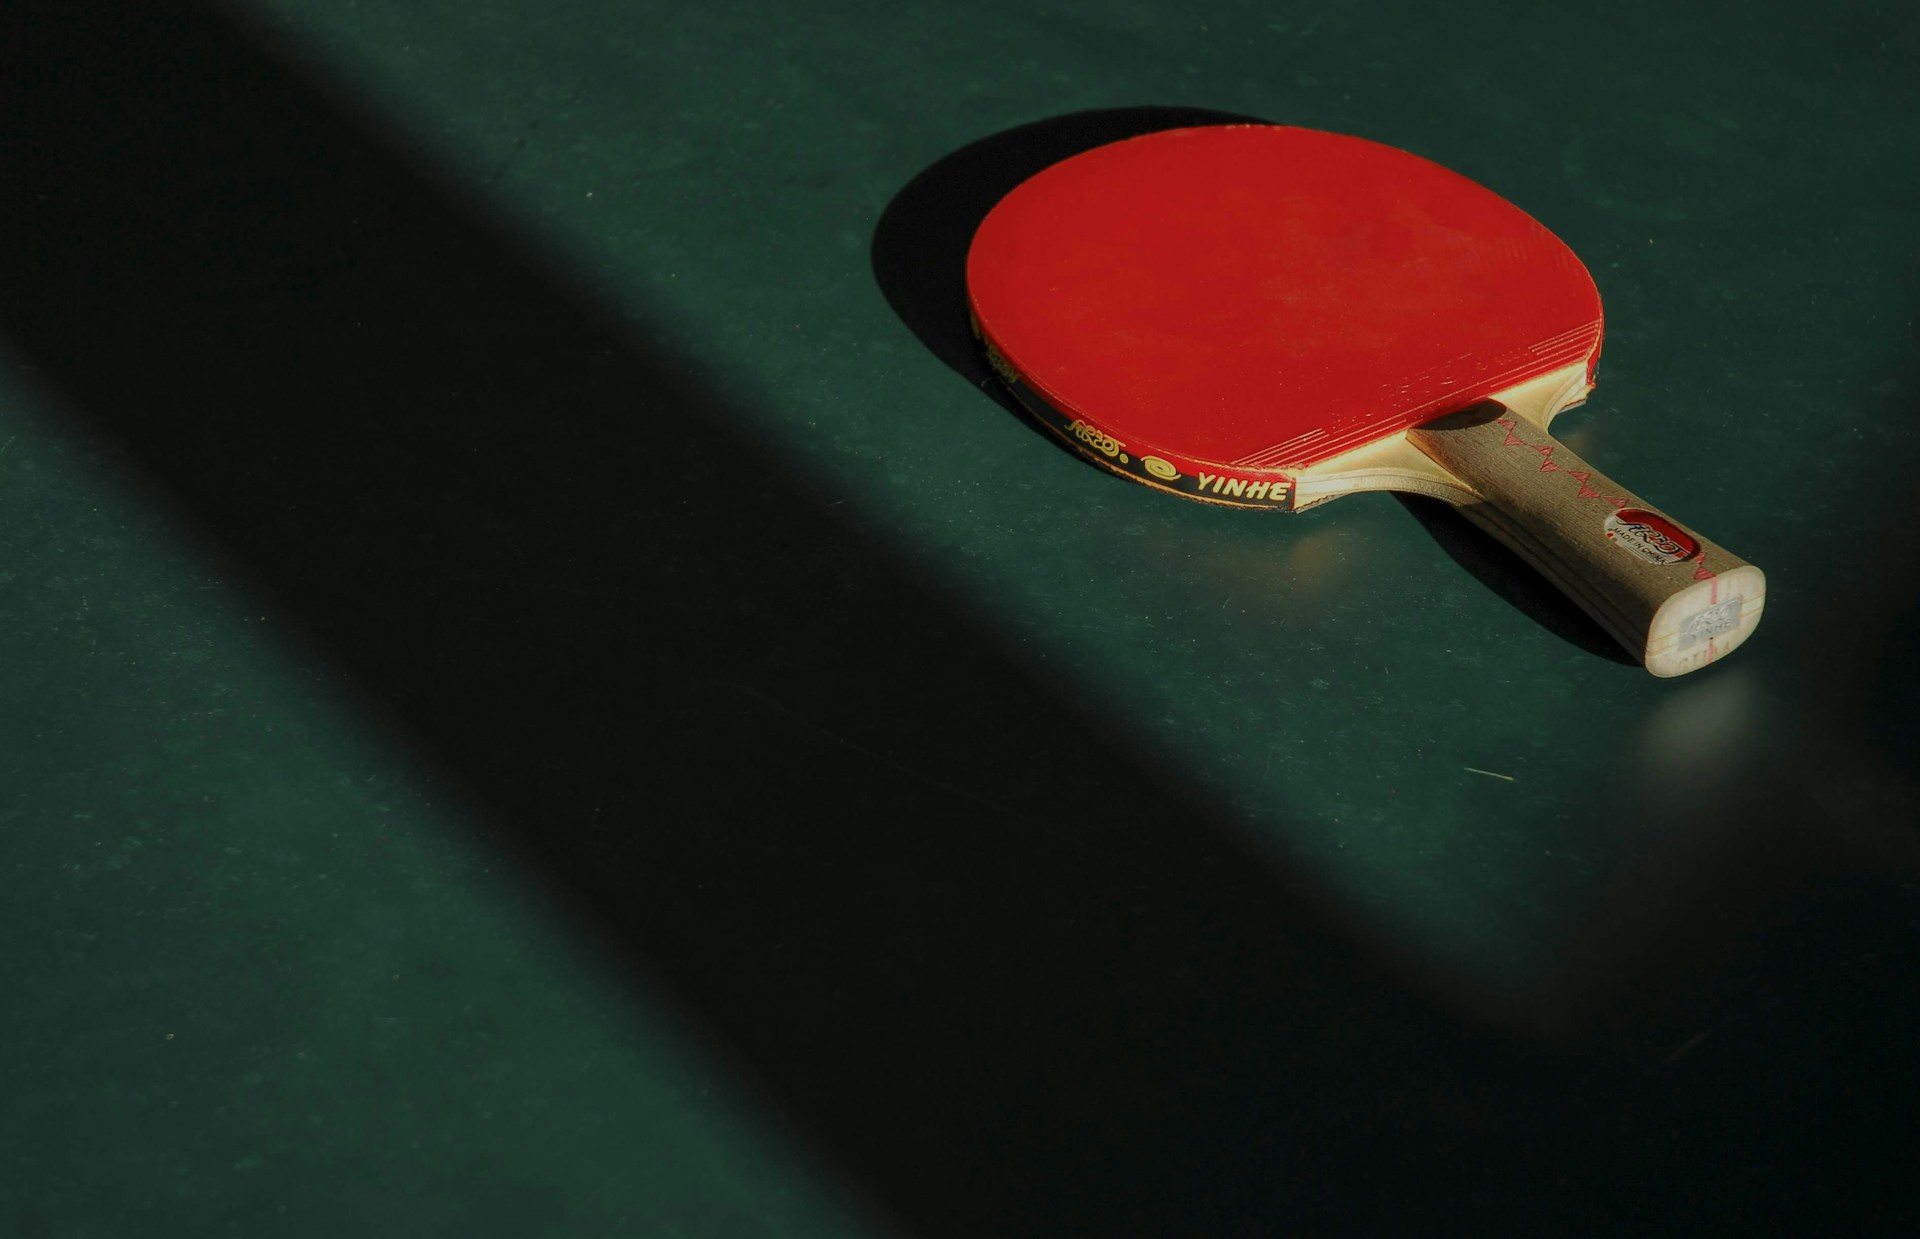
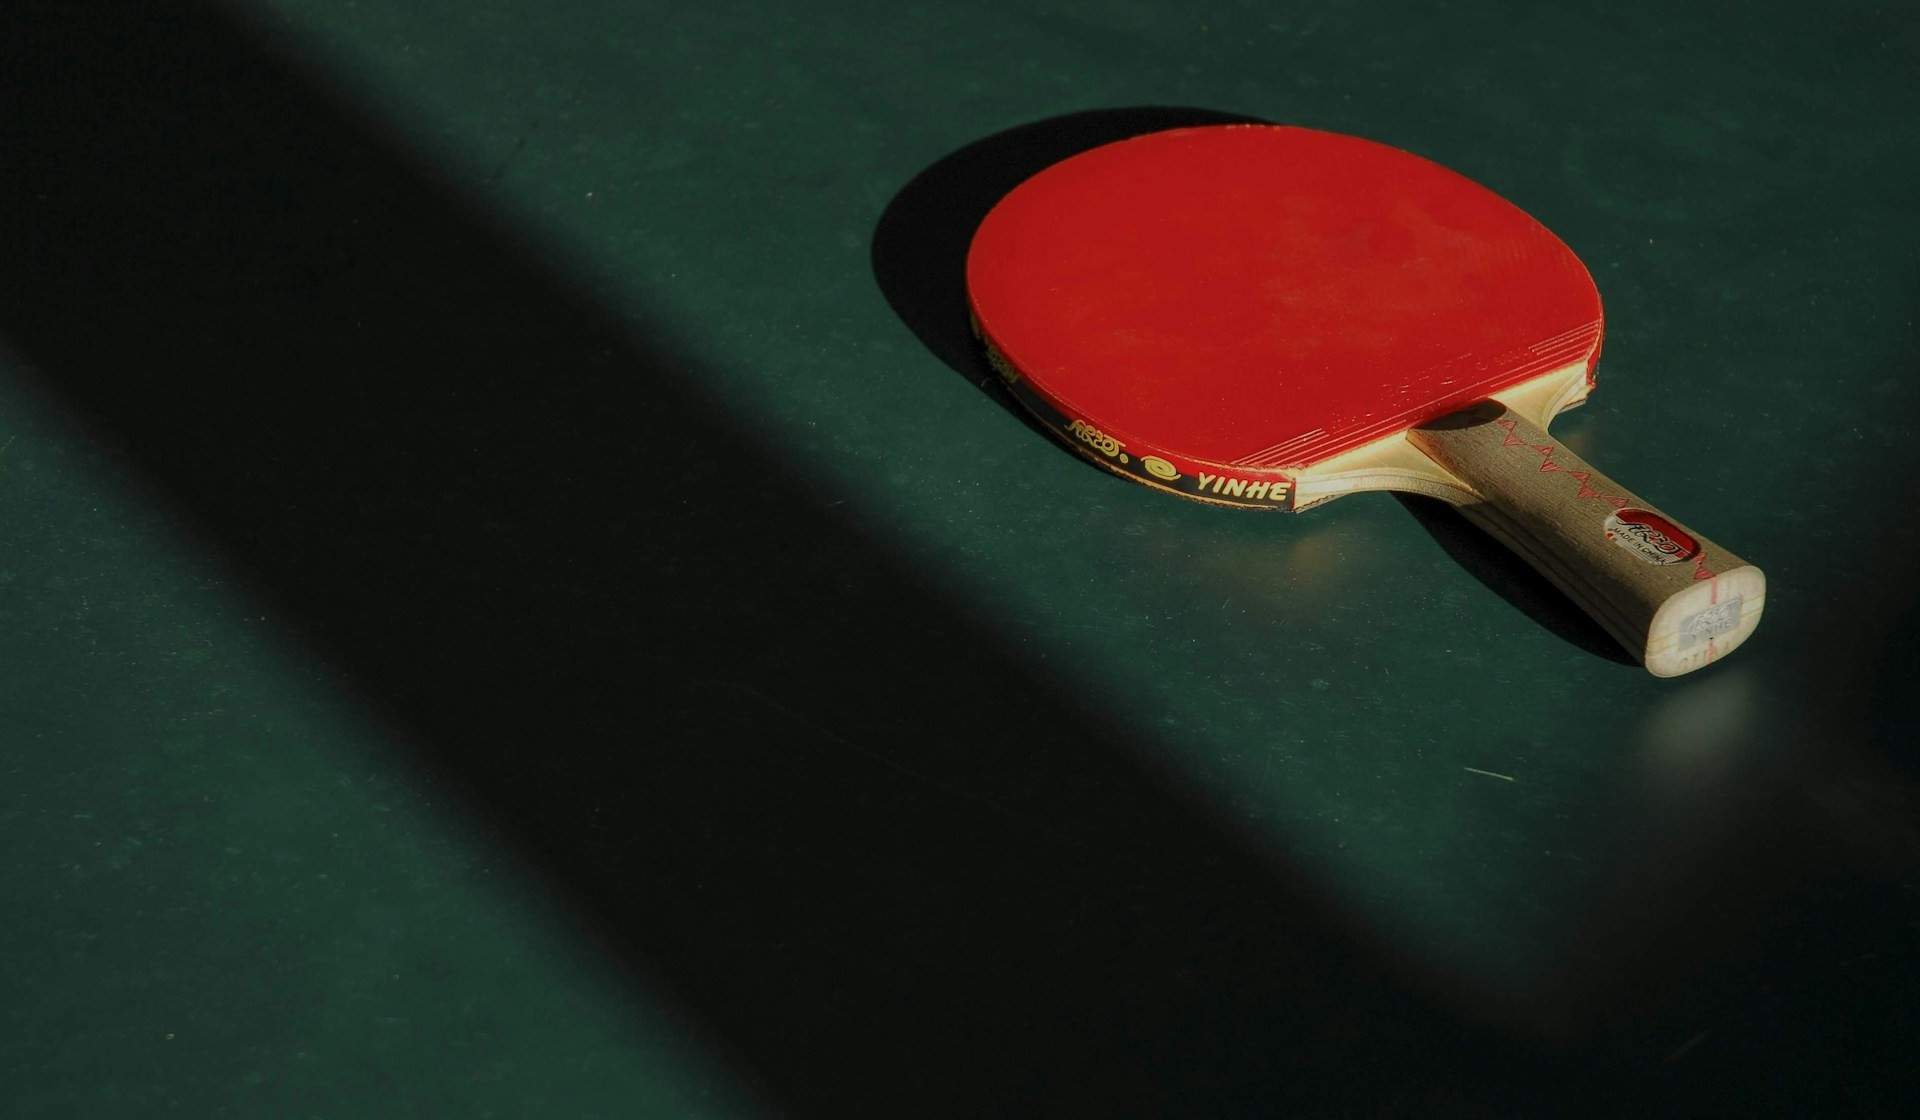
Prtt

diff --git a/prtt/src/app/component/home/home.component.scss b/prtt/src/app/component/home/home.component.scss
@@ -1,0 +1,153 @@
+@use '../../../var.scss' as var;
+
+.app-home {
+    width: 100%;
+    margin-bottom: 200px;
+
+    &-header {
+        position: absolute;
+        overflow: hidden;
+        inset: 0;
+        top: 6%;
+        height: 85vh;
+
+        &_img {
+            display: block;
+            width: 100%;
+            height: 100%;
+            object-fit: cover;
+            object-position: center;
+        }
+
+        &_filter {
+            position: absolute;
+            width: 100%;
+            height: 100%;
+            inset: 0;
+            background-image: linear-gradient(to right, rgba(17, 24, 39, 0.9), rgba(17, 24, 39, 0.7), transparent);
+        }
+    }
+
+    &-content {
+        position: relative;
+        width: max-content;
+        height: max-content;
+        max-height: 400px;
+        margin-top: 11.8%;
+        margin-left: 10%;
+
+        &-title {
+            display: flex;
+            flex-wrap: wrap;
+            flex-direction: column;
+            width: max-content;
+            font-size: 3.75rem;
+            line-height: 4rem;
+            margin-bottom: 0;
+            max-width: 600px;
+
+            &_white {
+                color: white;
+            }
+
+            &_color {
+                background: linear-gradient(145deg, #fb923c, #ef4444);
+                -webkit-background-clip: text;
+                background-clip: text;
+                color: transparent;
+                -webkit-text-fill-color: transparent;
+                height: 78px;
+            }
+        }
+
+        &-subtitle {
+            font-size: 1.1rem;
+            line-height: .8rem;
+            color: rgb(255, 255, 255, .9);
+        }
+
+        &-btn {
+            display: flex;
+            gap: 20px;
+            margin-top: 36px;
+            
+            &-common {
+                width: max-content;
+                height: max-content;
+                outline: none;
+                color: white;
+                cursor: pointer;
+                font-family: var.$fontFamily;
+                font-weight: 500;
+                padding: .68rem 1.6rem;
+                font-size: 1.1rem;
+                border-radius: 4px;
+                border: 0;
+
+                &_join {
+                    display: flex;
+                    gap: 12px;
+                    background: linear-gradient(60deg, #ff7e14, #e21616);
+                }
+
+                &_new {
+                    background-color: rgb(255, 255, 255, .1);
+                    border: 1px solid white
+                }
+            }
+        }
+
+        &-stats {
+            display: flex;
+            gap: 20px;
+
+            &-container {
+                display: flex;
+                align-items: center;
+                flex-direction: column;
+                padding: 20px;
+                width: 260px;
+                height: 164px;
+                margin-top: 24px;
+                border-radius: 12px;
+                border: 1px solid rgb(128, 128, 128, .2);
+                background-color: white;
+                box-shadow: 0 6px 12px rgba(0,0,0,0.2);
+
+                &:hover {
+                    box-shadow: 0 10px 20px rgba(0,0,0,0.2);
+                }
+
+                &_logo {
+                    display: flex;
+                    justify-content: center;
+                    align-items: center;
+                    width: 50px;
+                    height: 50px;
+                    border-radius: 9999px;
+                    background-color: #fee2e2;
+
+                    ::ng-deep {
+                        color: rgb(234, 88, 12);
+                    }
+                }
+
+                &_paragraphe {
+                    margin: 0;
+                    margin-top: 8px;
+                    font-weight: bold;
+                    font-size: 1.9rem;
+                    color: rgb(28, 28, 28);
+                }
+
+                &_description {
+                    margin: 0;
+                    margin-top: 4px;
+                    font-size: .9rem;
+                    font-weight: 500;
+                    color: rgb(55, 55, 55);
+                }
+            }
+        }
+    }
+}

diff --git a/prtt/src/app/component/home/home.component.html b/prtt/src/app/component/home/home.component.html
@@ -1,1 +1,52 @@
 <extranet-navbar />
+
+<div class="app-home">
+    <header class="app-home-header">
+        <img class="app-home-header_img" src="welcome.jpg" alt="ping pong" />
+        <div class="app-home-header_filter"></div>
+    </header>
+    <div class="app-home-content">
+        <h1 class="app-home-content-title">
+            <span class="app-home-content-title_white">Bienvenue au Club de</span>
+            <span class="app-home-content-title_color">Perpignan Roussillon</span>
+        </h1>
+        <div class="app-home-content-subtitle">
+            <p>Rejoingez notre communauté passionnée et découvrez le tennis de table</p>
+            <p>dans une ambiance conviviale et compétitive.</p>
+        </div>
+        <div class="app-home-content-btn">
+            <button class="app-home-content-btn-common app-home-content-btn-common_join">Nous Rejoindre <svg-join /></button>
+            <button class="app-home-content-btn-common app-home-content-btn-common_new">Actualités</button>
+        </div>
+        <div class="app-home-content-stats">
+            <div class="app-home-content-stats-container">
+                <div class="app-home-content-stats-container_logo">
+                    <svg-people [size]="26" />
+                </div>
+                <p class="app-home-content-stats-container_paragraphe">Plus de 150</p>
+                <p class="app-home-content-stats-container_description">Membres Actifs</p>
+            </div>
+            <div class="app-home-content-stats-container">
+                <div class="app-home-content-stats-container_logo">
+                    <svg-cup [size]="26" />
+                </div>
+                <p class="app-home-content-stats-container_paragraphe">25 ans et plus</p>
+                <p class="app-home-content-stats-container_description">Titres Gagnés</p>
+            </div>
+            <div class="app-home-content-stats-container">
+                <div class="app-home-content-stats-container_logo">
+                    <svg-calendar [size]="26" />
+                </div>
+                <p class="app-home-content-stats-container_paragraphe">30+</p>
+                <p class="app-home-content-stats-container_description">Années d'Existence</p>
+            </div>
+            <div class="app-home-content-stats-container">
+                <div class="app-home-content-stats-container_logo">
+                    <svg-star [size]="26" />
+                </div>
+                <p class="app-home-content-stats-container_paragraphe">8</p>
+                <p class="app-home-content-stats-container_description">Tables Disponibles</p>
+            </div>
+        </div>
+    </div>
+</div>

diff --git a/prtt/src/app/shared/svg/star/star.component.html b/prtt/src/app/shared/svg/star/star.component.html
@@ -1,1 +1,1 @@
-<svg style="margin-top: 4px;" xmlns="http://www.w3.org/2000/svg" width="18" height="18" viewBox="0 0 24 24" fill="none" stroke="currentColor" stroke-width="2" stroke-linecap="round" stroke-linejoin="round" class="lucide lucide-sparkles w-4 h-4"><path d="M9.937 15.5A2 2 0 0 0 8.5 14.063l-6.135-1.582a.5.5 0 0 1 0-.962L8.5 9.936A2 2 0 0 0 9.937 8.5l1.582-6.135a.5.5 0 0 1 .963 0L14.063 8.5A2 2 0 0 0 15.5 9.937l6.135 1.581a.5.5 0 0 1 0 .964L15.5 14.063a2 2 0 0 0-1.437 1.437l-1.582 6.135a.5.5 0 0 1-.963 0z"></path><path d="M20 3v4"></path><path d="M22 5h-4"></path><path d="M4 17v2"></path><path d="M5 18H3"></path></svg>
+<svg style="vertical-align: middle;" xmlns="http://www.w3.org/2000/svg" [attr.width]="size" [attr.height]="size" viewBox="0 0 24 24" fill="none" stroke="currentColor" stroke-width="2" stroke-linecap="round" stroke-linejoin="round" class="lucide lucide-sparkles w-4 h-4"><path d="M9.937 15.5A2 2 0 0 0 8.5 14.063l-6.135-1.582a.5.5 0 0 1 0-.962L8.5 9.936A2 2 0 0 0 9.937 8.5l1.582-6.135a.5.5 0 0 1 .963 0L14.063 8.5A2 2 0 0 0 15.5 9.937l6.135 1.581a.5.5 0 0 1 0 .964L15.5 14.063a2 2 0 0 0-1.437 1.437l-1.582 6.135a.5.5 0 0 1-.963 0z"></path><path d="M20 3v4"></path><path d="M22 5h-4"></path><path d="M4 17v2"></path><path d="M5 18H3"></path></svg>

diff --git a/prtt/src/app/shared/svg/cup/cup.component.html b/prtt/src/app/shared/svg/cup/cup.component.html
@@ -1,1 +1,1 @@
-<svg style="margin-top: 4px;" xmlns="http://www.w3.org/2000/svg" width="18" height="18" viewBox="0 0 24 24" fill="none" stroke="currentColor" stroke-width="2" stroke-linecap="round" stroke-linejoin="round" class="lucide lucide-trophy w-4 h-4"><path d="M6 9H4.5a2.5 2.5 0 0 1 0-5H6"></path><path d="M18 9h1.5a2.5 2.5 0 0 0 0-5H18"></path><path d="M4 22h16"></path><path d="M10 14.66V17c0 .55-.47.98-.97 1.21C7.85 18.75 7 20.24 7 22"></path><path d="M14 14.66V17c0 .55.47.98.97 1.21C16.15 18.75 17 20.24 17 22"></path><path d="M18 2H6v7a6 6 0 0 0 12 0V2Z"></path></svg>
+<svg style="vertical-align: middle;" xmlns="http://www.w3.org/2000/svg" [attr.width]="size" [attr.height]="size" viewBox="0 0 24 24" fill="none" stroke="currentColor" stroke-width="2" stroke-linecap="round" stroke-linejoin="round" class="lucide lucide-trophy w-4 h-4"><path d="M6 9H4.5a2.5 2.5 0 0 1 0-5H6"></path><path d="M18 9h1.5a2.5 2.5 0 0 0 0-5H18"></path><path d="M4 22h16"></path><path d="M10 14.66V17c0 .55-.47.98-.97 1.21C7.85 18.75 7 20.24 7 22"></path><path d="M14 14.66V17c0 .55.47.98.97 1.21C16.15 18.75 17 20.24 17 22"></path><path d="M18 2H6v7a6 6 0 0 0 12 0V2Z"></path></svg>

diff --git a/prtt/src/app/shared/svg/newspaper/newspaper.component.html b/prtt/src/app/shared/svg/newspaper/newspaper.component.html
@@ -1,1 +1,1 @@
-<svg style="margin-top: 4px;" xmlns="http://www.w3.org/2000/svg" width="18" height="18" viewBox="0 0 24 24" fill="none" stroke-width="2" stroke-linecap="round" stroke-linejoin="round" class="lucide lucide-newspaper w-4 h-4"><path d="M4 22h16a2 2 0 0 0 2-2V4a2 2 0 0 0-2-2H8a2 2 0 0 0-2 2v16a2 2 0 0 1-2 2Zm0 0a2 2 0 0 1-2-2v-9c0-1.1.9-2 2-2h2"></path><path d="M18 14h-8"></path><path d="M15 18h-5"></path><path d="M10 6h8v4h-8V6Z"></path></svg>
+<svg style="vertical-align: middle;" xmlns="http://www.w3.org/2000/svg" width="18" height="18" viewBox="0 0 24 24" fill="none" stroke-width="2" stroke-linecap="round" stroke-linejoin="round" class="lucide lucide-newspaper w-4 h-4"><path d="M4 22h16a2 2 0 0 0 2-2V4a2 2 0 0 0-2-2H8a2 2 0 0 0-2 2v16a2 2 0 0 1-2 2Zm0 0a2 2 0 0 1-2-2v-9c0-1.1.9-2 2-2h2"></path><path d="M18 14h-8"></path><path d="M15 18h-5"></path><path d="M10 6h8v4h-8V6Z"></path></svg>

diff --git a/prtt/src/app/shared/svg/people/people.component.html b/prtt/src/app/shared/svg/people/people.component.html
@@ -1,1 +1,1 @@
-<svg style="margin-top: 4px;" xmlns="http://www.w3.org/2000/svg" width="18" height="18" viewBox="0 0 24 24" fill="none" stroke="currentColor" stroke-width="2" stroke-linecap="round" stroke-linejoin="round" class="lucide lucide-users w-4 h-4"><path d="M16 21v-2a4 4 0 0 0-4-4H6a4 4 0 0 0-4 4v2"></path><circle cx="9" cy="7" r="4"></circle><path d="M22 21v-2a4 4 0 0 0-3-3.87"></path><path d="M16 3.13a4 4 0 0 1 0 7.75"></path></svg>
+<svg style="vertical-align: middle;" xmlns="http://www.w3.org/2000/svg" [attr.width]="size" [attr.height]="size" viewBox="0 0 24 24" fill="none" stroke="currentColor" stroke-width="2" stroke-linecap="round" stroke-linejoin="round" class="lucide lucide-users w-4 h-4"><path d="M16 21v-2a4 4 0 0 0-4-4H6a4 4 0 0 0-4 4v2"></path><circle cx="9" cy="7" r="4"></circle><path d="M22 21v-2a4 4 0 0 0-3-3.87"></path><path d="M16 3.13a4 4 0 0 1 0 7.75"></path></svg>

diff --git a/prtt/src/app/shared/svg/house/house.component.html b/prtt/src/app/shared/svg/house/house.component.html
@@ -1,1 +1,1 @@
-<svg style="margin-top: 4px;" xmlns="http://www.w3.org/2000/svg" width="18" height="18" viewBox="0 0 24 24" fill="none" stroke="currentColor" stroke-width="2" stroke-linecap="round" stroke-linejoin="round" class="lucide lucide-house w-4 h-4"><path d="M15 21v-8a1 1 0 0 0-1-1h-4a1 1 0 0 0-1 1v8"></path><path d="M3 10a2 2 0 0 1 .709-1.528l7-5.999a2 2 0 0 1 2.582 0l7 5.999A2 2 0 0 1 21 10v9a2 2 0 0 1-2 2H5a2 2 0 0 1-2-2z"></path></svg>
+<svg style="vertical-align: middle;" xmlns="http://www.w3.org/2000/svg" width="18" height="18" viewBox="0 0 24 24" fill="none" stroke="currentColor" stroke-width="2" stroke-linecap="round" stroke-linejoin="round" class="lucide lucide-house w-4 h-4"><path d="M15 21v-8a1 1 0 0 0-1-1h-4a1 1 0 0 0-1 1v8"></path><path d="M3 10a2 2 0 0 1 .709-1.528l7-5.999a2 2 0 0 1 2.582 0l7 5.999A2 2 0 0 1 21 10v9a2 2 0 0 1-2 2H5a2 2 0 0 1-2-2z"></path></svg>

diff --git a/prtt/src/app/shared/navbar/navbar.component.scss b/prtt/src/app/shared/navbar/navbar.component.scss
@@ -1,3 +1,5 @@
+$heightNav: 80px;
+
 .extranet-navbar {
     display: flex;
     align-items: center;
@@ -5,11 +7,16 @@
     justify-content: space-between;
     left: 0;
     top: 0;
-    height: 80px;
+    height: $heightNav;
     width: 100%;
     padding: 0 9rem;
     border-bottom: 1px solid rgb(128, 128, 128, .2);
-    background-color: rgb(255, 255, 255, .8);
+    background-color: rgb(255, 255, 255);
+    z-index: 999;
+
+    &-margin {
+        height: $heightNav - 8;
+    }
 
     &-liste {
         display: flex;
@@ -22,8 +29,8 @@
             cursor: pointer;
             font-weight: 500;
             gap: 12px;
-            font-size: 0.9rem;
-            height: 38px;
+            font-size: 0.78rem;
+            height: 34px;
             padding: 0 1rem 0 1rem;
             border-radius: 8px;
             stroke: black;

diff --git a/prtt/src/app/shared/svg/calendar/calendar.component.html b/prtt/src/app/shared/svg/calendar/calendar.component.html
@@ -1,1 +1,1 @@
-<svg style="margin-top: 4px;" xmlns="http://www.w3.org/2000/svg" width="18" height="18" viewBox="0 0 24 24" fill="none" stroke="currentColor" stroke-width="2" stroke-linecap="round" stroke-linejoin="round" class="lucide lucide-calendar w-4 h-4"><path d="M8 2v4"></path><path d="M16 2v4"></path><rect width="18" height="18" x="3" y="4" rx="2"></rect><path d="M3 10h18"></path></svg>
+<svg style="margin-top: 4px;" xmlns="http://www.w3.org/2000/svg" [attr.width]="size" [attr.height]="size" viewBox="0 0 24 24" fill="none" stroke="currentColor" stroke-width="2" stroke-linecap="round" stroke-linejoin="round" class="lucide lucide-calendar w-4 h-4"><path d="M8 2v4"></path><path d="M16 2v4"></path><rect width="18" height="18" x="3" y="4" rx="2"></rect><path d="M3 10h18"></path></svg>

diff --git a/prtt/src/app/component/home/home.component.ts b/prtt/src/app/component/home/home.component.ts
@@ -1,9 +1,14 @@
 import { Component } from '@angular/core';
 import { NavbarComponent } from '../../shared/navbar/navbar.component';
+import { JoinSVGComponent } from '../../shared/svg/join/join.component';
+import { PeopleVGComponent } from '../../shared/svg/people/people.component';
+import { CupSVGComponent } from '../../shared/svg/cup/cup.component';
+import { CalendarSVGComponent } from '../../shared/svg/calendar/calendar.component';
+import { StarSVGComponent } from '../../shared/svg/star/star.component';
 
 @Component({
   selector: 'app-home',
-  imports: [NavbarComponent],
+  imports: [NavbarComponent, JoinSVGComponent, PeopleVGComponent, CupSVGComponent, CalendarSVGComponent, StarSVGComponent],
   templateUrl: './home.component.html',
   styleUrl: './home.component.scss'
 })

diff --git a/prtt/src/app/shared/svg/infos/infos.component.html b/prtt/src/app/shared/svg/infos/infos.component.html
@@ -1,1 +1,1 @@
-<svg style="margin-top: 4px;" xmlns="http://www.w3.org/2000/svg" width="18" height="18" viewBox="0 0 24 24" fill="none" stroke="currentColor" stroke-width="2" stroke-linecap="round" stroke-linejoin="round" class="lucide lucide-info w-4 h-4"><circle cx="12" cy="12" r="10"></circle><path d="M12 16v-4"></path><path d="M12 8h.01"></path></svg>
+<svg style="vertical-align: middle;" xmlns="http://www.w3.org/2000/svg" width="18" height="18" viewBox="0 0 24 24" fill="none" stroke="currentColor" stroke-width="2" stroke-linecap="round" stroke-linejoin="round" class="lucide lucide-info w-4 h-4"><circle cx="12" cy="12" r="10"></circle><path d="M12 16v-4"></path><path d="M12 8h.01"></path></svg>

diff --git a/prtt/src/app/shared/svg/house/navbar.component.spec.ts b/prtt/src/app/shared/svg/house/navbar.component.spec.ts
@@ -1,0 +1,23 @@
+import { ComponentFixture, TestBed } from '@angular/core/testing';
+
+import { NavbarComponent } from './navbar.component';
+
+describe('Home', () => {
+  let component: NavbarComponent;
+  let fixture: ComponentFixture<NavbarComponent>;
+
+  beforeEach(async () => {
+    await TestBed.configureTestingModule({
+      imports: [NavbarComponent]
+    })
+    .compileComponents();
+
+    fixture = TestBed.createComponent(NavbarComponent);
+    component = fixture.componentInstance;
+    fixture.detectChanges();
+  });
+
+  it('should create', () => {
+    expect(component).toBeTruthy();
+  });
+});
